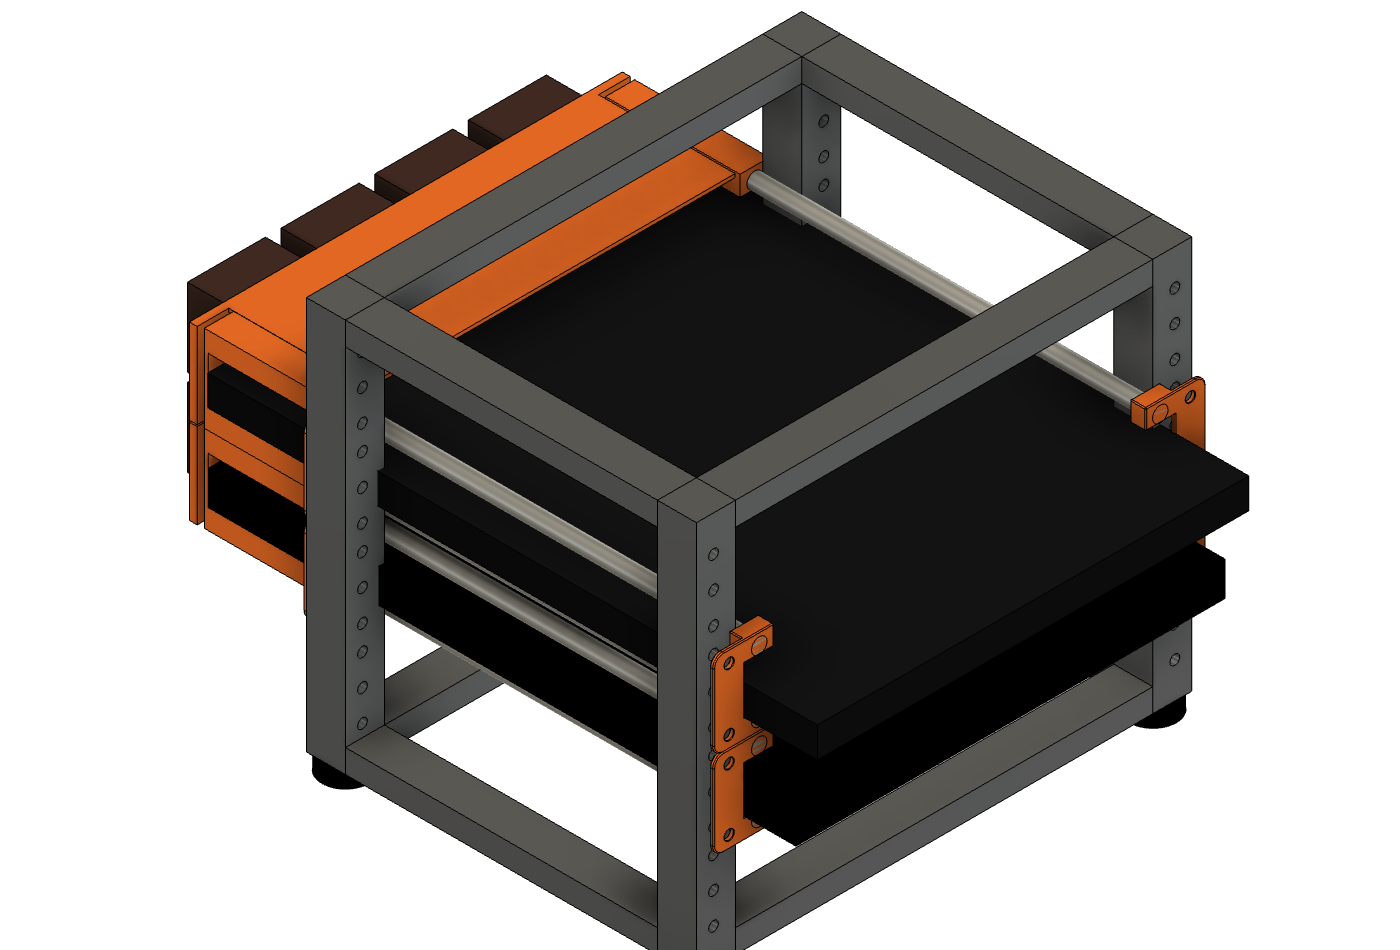
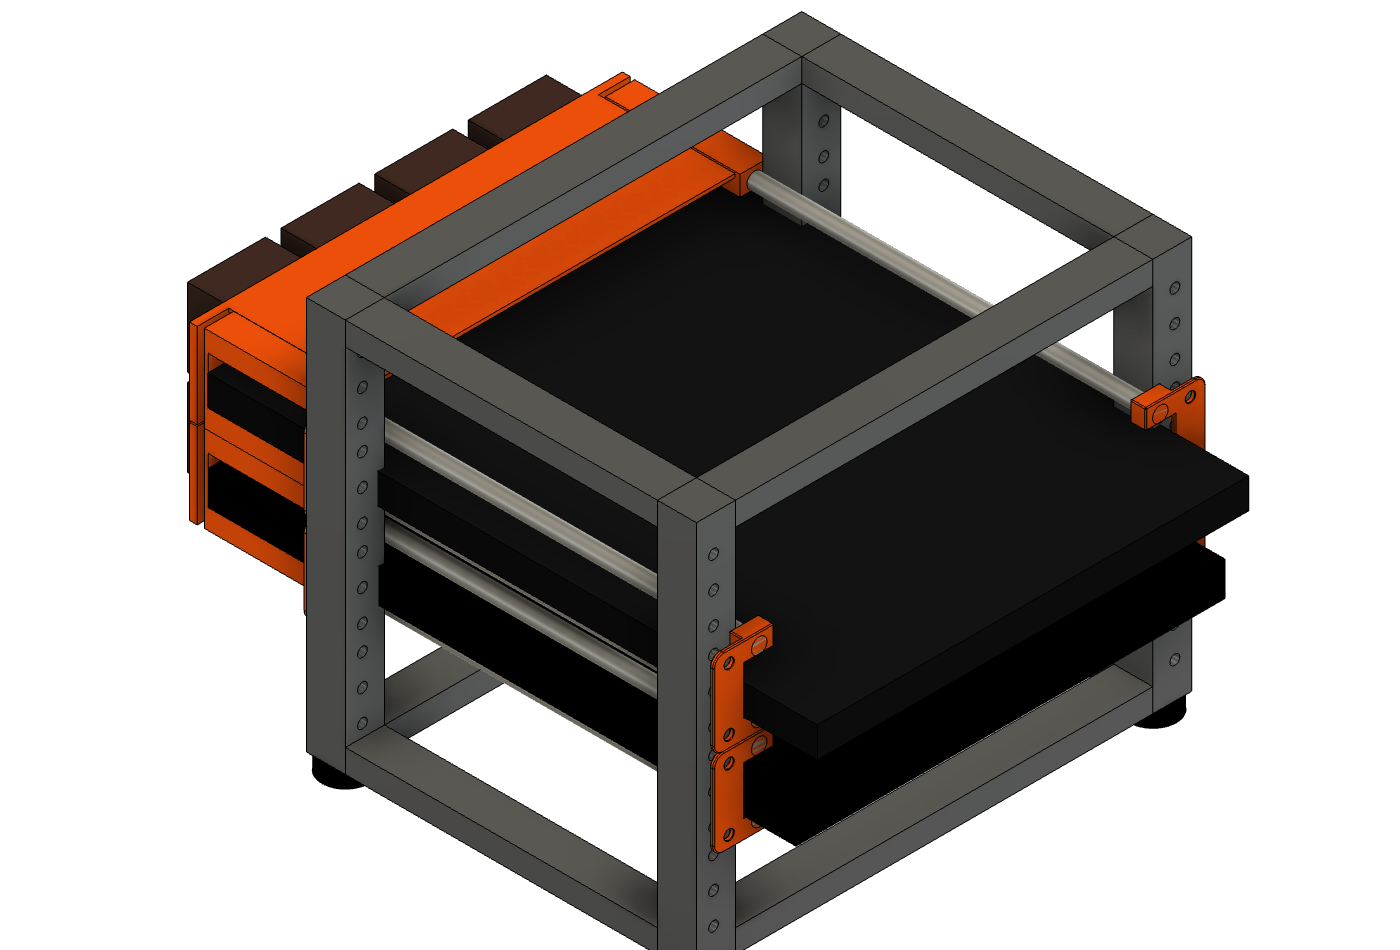
Fix viewer colors: Prusa orange prints, correct groups, linear-space GLB
- Printed parts now Prusament Prusa Orange (#F75403) in renders and GLB
- GLB part classification is substring-based, fixing rods and the
  duplicate-named fans that rendered as printed parts in the viewer
- Convert palette sRGB -> linear for glTF baseColorFactor (colors were
  washed out: gray laptops, pale prints)
- Move GIF/GLB assembly into scripts/build_web_assets.py

Claude-Session: https://claude.ai/code/session_01FucNznPGZfhzUNsFimLYsu

Changed region(s): [[0.1536, 0.0611, 0.4607, 0.3968]]

diff --git a/scripts/build_web_assets.py b/scripts/build_web_assets.py
@@ -1,0 +1,125 @@
+"""Assemble the README turntable GIF and the Pages viewer GLB.
+
+Inputs are produced by running build_rack_mockup.py inside Fusion and then
+exporting (a) one STL per body into a parts directory and (b) a sequence of
+turntable PNG frames. This script runs locally:
+
+    python scripts/build_web_assets.py --parts-dir <dir> --frames-dir <dir>
+
+Requires: pillow, trimesh, numpy (pip install pillow trimesh numpy).
+
+Color notes:
+- The palette below is authored in sRGB to match the Fusion renders; glTF's
+  baseColorFactor is linear, so values are converted with the sRGB EOTF
+  before export. Skipping that conversion washes every color out.
+- Fusion de-duplicates repeated body names ("... fan (1)"), so parts are
+  classified by substring, not exact suffix.
+"""
+
+import argparse
+from pathlib import Path
+
+import numpy as np
+import trimesh
+from PIL import Image
+
+GIF_PATH = Path("docs/images/rack-turntable.gif")
+GLB_PATH = Path("docs/models/rack-mockup.glb")
+
+# sRGB, matching the appearances in build_rack_mockup.py
+PALETTE = {
+    "frame": (196, 199, 204, 255),
+    "foot": (25, 25, 25, 255),
+    "rod": (215, 215, 220, 255),
+    "macbook": (45, 45, 48, 255),
+    "surface": (28, 28, 30, 255),
+    "fan": (94, 61, 48, 255),
+    "print": (247, 84, 3, 255),  # Prusament Prusa Orange
+}
+
+METALLIC = {"frame": 0.6, "rod": 0.6}
+ROUGHNESS = {"rod": 0.35}
+
+
+def classify(stem: str) -> str:
+    """Map an exported body filename to a palette group."""
+    lower = stem.lower()
+    if "foot" in lower:
+        return "foot"
+    if lower.split("_", 1)[-1].startswith("frame"):
+        return "frame"
+    if "ref" in lower and "macbook" in lower:
+        return "macbook"
+    if "ref" in lower and "surface" in lower:
+        return "surface"
+    if "fan_bar" in lower:
+        return "print"
+    if "fan" in lower:
+        return "fan"
+    if "rod" in lower:
+        return "rod"
+    return "print"
+
+
+def srgb_to_linear(rgba_255):
+    """Convert 0-255 sRGB to linear floats per the sRGB EOTF (alpha passes through)."""
+    srgb = np.array(rgba_255[:3], dtype=np.float64) / 255.0
+    linear = np.where(srgb <= 0.04045, srgb / 12.92, ((srgb + 0.055) / 1.055) ** 2.4)
+    return np.append(linear, rgba_255[3] / 255.0)
+
+
+def build_gif(frames_dir: Path) -> None:
+    frames = []
+    for frame_path in sorted(frames_dir.glob("frame_*.png")):
+        image = Image.open(frame_path).convert("RGB")
+        frames.append(image.quantize(colors=128, dither=Image.Dither.FLOYDSTEINBERG))
+    if not frames:
+        raise SystemExit(f"no frames found in {frames_dir}")
+    frames[0].save(GIF_PATH, save_all=True, append_images=frames[1:],
+                   duration=90, loop=0, optimize=True)
+    print(f"GIF: {GIF_PATH} ({GIF_PATH.stat().st_size / 1e6:.2f} MB, {len(frames)} frames)")
+
+
+def build_glb(parts_dir: Path) -> None:
+    # Z-up (Fusion world) -> Y-up (glTF)
+    z_to_y_up = np.array([
+        [1, 0, 0, 0],
+        [0, 0, 1, 0],
+        [0, -1, 0, 0],
+        [0, 0, 0, 1],
+    ], dtype=np.float64)
+
+    scene = trimesh.Scene()
+    counts = {}
+    for stl_path in sorted(parts_dir.glob("*.stl")):
+        mesh = trimesh.load_mesh(stl_path)
+        mesh.apply_transform(z_to_y_up)
+        group = classify(stl_path.stem)
+        counts[group] = counts.get(group, 0) + 1
+        mesh.visual = trimesh.visual.TextureVisuals(
+            material=trimesh.visual.material.PBRMaterial(
+                baseColorFactor=srgb_to_linear(PALETTE[group]),
+                metallicFactor=METALLIC.get(group, 0.1),
+                roughnessFactor=ROUGHNESS.get(group, 0.6),
+            ))
+        scene.add_geometry(mesh, node_name=stl_path.stem)
+    if not counts:
+        raise SystemExit(f"no part STLs found in {parts_dir}")
+    GLB_PATH.parent.mkdir(parents=True, exist_ok=True)
+    scene.export(GLB_PATH)
+    print(f"GLB: {GLB_PATH} ({GLB_PATH.stat().st_size / 1e6:.2f} MB); groups: {counts}")
+
+
+def main() -> None:
+    parser = argparse.ArgumentParser(description=__doc__)
+    parser.add_argument("--parts-dir", type=Path, required=True,
+                        help="directory of per-body STL exports")
+    parser.add_argument("--frames-dir", type=Path, required=True,
+                        help="directory of turntable frame PNGs")
+    args = parser.parse_args()
+    build_gif(args.frames_dir)
+    build_glb(args.parts_dir)
+
+
+if __name__ == "__main__":
+    main()

diff --git a/scripts/build_rack_mockup.py b/scripts/build_rack_mockup.py
@@ -261,8 +261,9 @@ def run(_context: str):
 
     aluminum = get_appearance("Aluminum - Anodized Glossy (Grey)", "Rack Aluminum",
                               rgb=(196, 199, 204))
+    # Prusament Prusa Orange (#F75403)
     orange_print = get_appearance("Plastic - Matte (Black)", "PETG Orange",
-                                  rgb=(235, 110, 35))
+                                  rgb=(247, 84, 3))
     steel = get_appearance("Stainless Steel - Satin", "Rod Steel")
     macbook_look = get_appearance("Paint - Enamel Glossy (Dark Grey)",
                                   "MacBook Space Black", rgb=(45, 45, 48))
